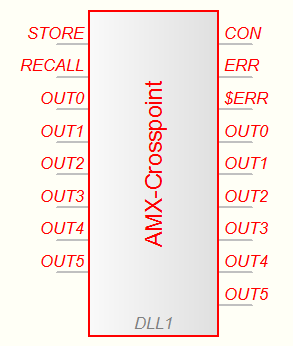
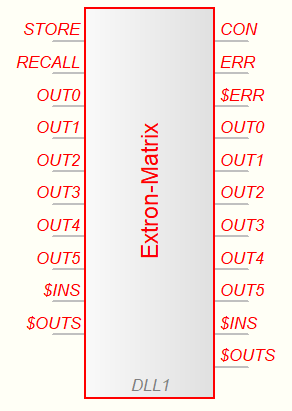
Update the documentation

Changed region(s): [[0.0616, 0.0, 0.9555, 0.9827], [0.4623, 0.2312, 0.5856, 0.7225]]

diff --git a/docs/Documentation.md b/docs/Documentation.md
@@ -1,6 +1,6 @@
-# AMX Crosspoint DLL
+# Extron Matrix DLL
 
-This DLL allows to control a crosspoint from [AMX](https://www.amx.com) in your [ProfiLab](http://www.abacom-online.de/html/profilab.html) project.
+This DLL allows to control Extron matrix switchers like the [Matrix 3200 Series](https://www.extron.com/product/matrix3200) and [Matrix 6400 Series](https://www.extron.com/product/matrix6400) from your [ProfiLab](http://www.abacom-online.de/html/profilab.html) project.
 
 ![Screenshot](module.png)
 
@@ -11,6 +11,8 @@ Name   | Value Range       | Value Interpretation
 STORE  | 0 .. ?            | 0: do nothing<br>*n*: Store to preset *n*
 RECALL | 0 .. ?            | 0: do nothing<br>*n*: Recall from preset *n*
 OUT*n* | 0 .. *num inputs* | 0: Clear the output *n*<br>*x*: Route input *x* to output *n*
+$INS   | *text*            | semicolon-separated list of names for input ports
+$OUTS  | *text*            | semicolon-separated list of names for output ports
 
 For all pins decimal places are cut off. **DO NOT** pass negative numbers, the behavior is undefined.
 
@@ -23,3 +25,9 @@ CONN   | 0 .. 5            | 0: not connected<br>1: connected
 ERR    | 0 .. 5            | 0: no error<br>1: error
 $ERR   |                   | Textual representation of the error
 OUT*n* | 0 .. *num inputs* | 0: No input is routed to output *n* <br>*x*: Input *x* is routed to output *n*
+$INS   | *text*            | semicolon-separated list of names for input ports
+$OUTS  | *text*            | semicolon-separated list of names for output ports
+
+## `$INS` and `$OUTS`
+
+The number of items in each list doesn't have to match the number of existing inputs or ouputs. Given a switcher with 64 ouputs the text `CAM 1;CAM 2;CAM 3` is valid and will only change the names of the first three outputs.

diff --git a/ReadMe.md b/ReadMe.md
@@ -1,6 +1,6 @@
 # Extron-Matrix ProfiLab DLL
 
-A DLL for ProfiLab to interact with a Matrix crosspoint from Extron.
+A DLL for [ProfiLab](http://www.abacom-online.de/html/profilab.html) to interact with Extron Matrix switchers.
 
 The [documentation](docs/Documentation.md) explains what the DLL does in more detail.
 
